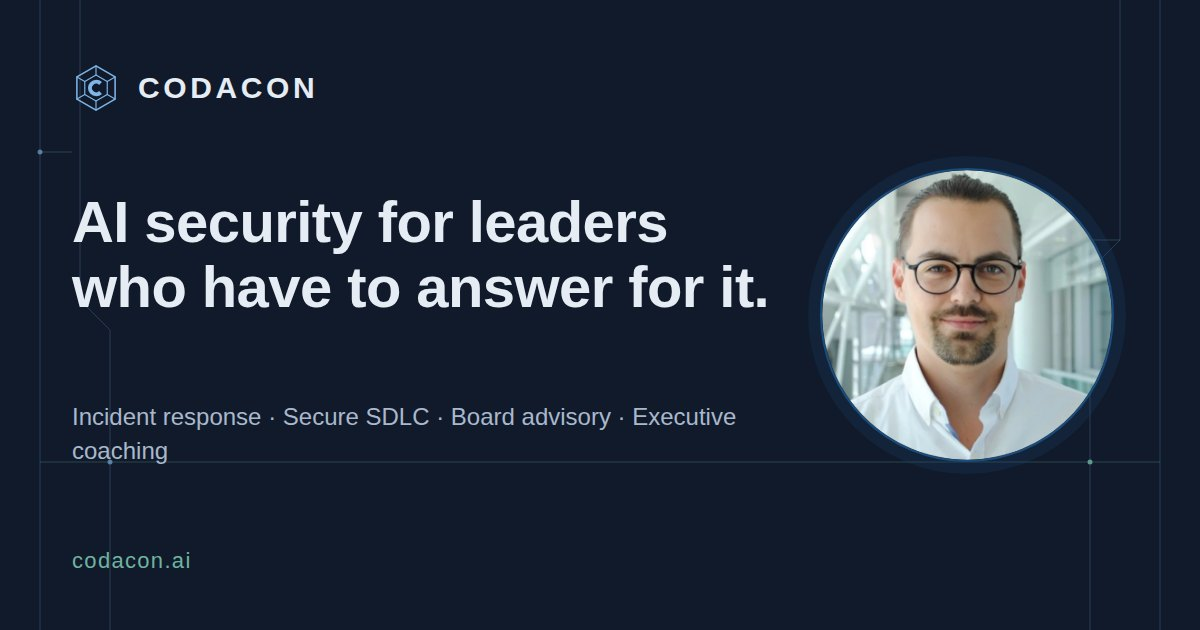
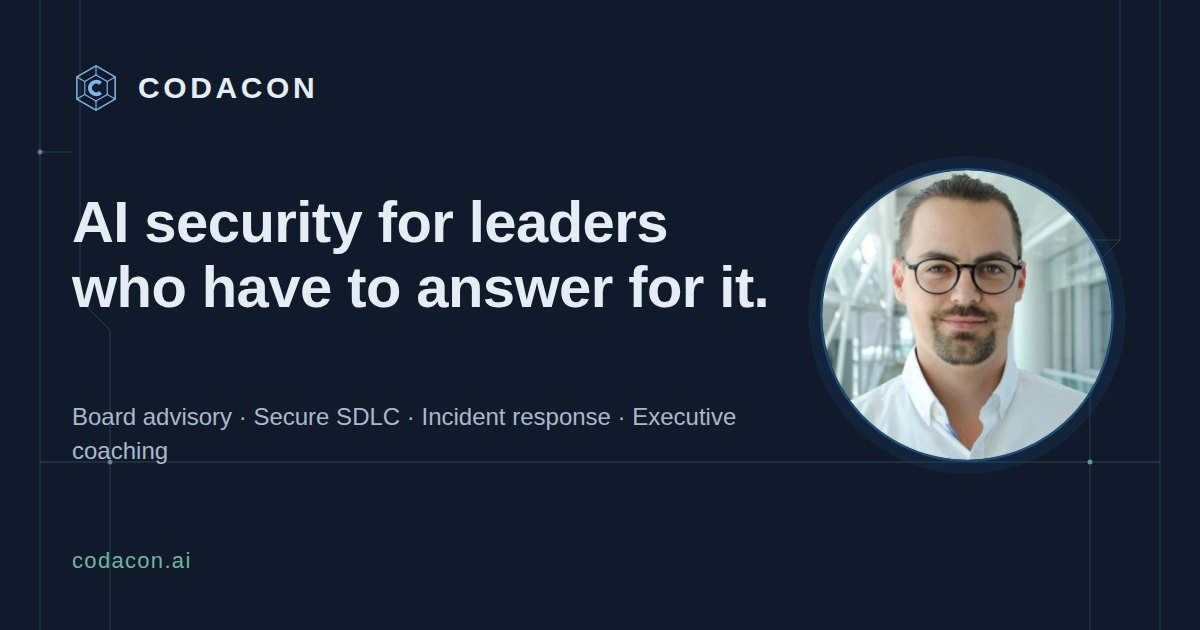
Reorder services: board advisory, then architecture, then the rest
Board advisory leads on the homepage and services pages in both languages,
followed by secure architectures and AI-driven SDLC, incident response,
executive coaching, and talent. Hero lede, meta descriptions, post CTA and
social cards follow the same order.

Claude-Session: https://claude.ai/code/session_01K1vowNS2AGvPoTpFr6H6sX

Changed region(s): [[0.0617, 0.6333, 0.5242, 0.6937]]

diff --git a/src/_data/i18n.js b/src/_data/i18n.js
@@ -17,7 +17,7 @@ module.exports = {
       license: 'This post is licensed under <a href="https://creativecommons.org/licenses/by/4.0/">CC BY 4.0</a>. You may share and adapt it with attribution and a link to',
       original: "the original",
       cta1Title: "Stay current on AI security",
-      cta1Body: 'Subscribe to the <a href="/feed.xml">RSS feed</a> for new posts on AI-driven security, secure SDLC, and incident response.',
+      cta1Body: 'Subscribe to the <a href="/feed.xml">RSS feed</a> for new posts on AI risk governance, secure SDLC, and incident response.',
       cta2Title: "Work with us",
       cta2Body: '<a href="https://calendar.app.google/imfdaTW4Y1iF9FqUA">Book a call</a> to discuss your security posture, AI strategy, or hiring needs, or <a href="mailto:hello@codacon.ai">email us</a>.',
     },
@@ -39,7 +39,7 @@ module.exports = {
       license: 'Ce billet est publié sous licence <a href="https://creativecommons.org/licenses/by/4.0/deed.fr">CC BY 4.0</a>. Vous pouvez le partager et l’adapter à condition d’en citer la source et d’inclure un lien vers',
       original: "l’original",
       cta1Title: "Restez à jour en sécurité de l’IA",
-      cta1Body: 'Abonnez-vous au <a href="/feed.xml">fil RSS</a> pour nos prochains billets sur la sécurité propulsée par l’IA, le SDLC sécurisé et la réponse aux incidents.',
+      cta1Body: 'Abonnez-vous au <a href="/feed.xml">fil RSS</a> pour nos prochains billets sur la gouvernance du risque lié à l’IA, le SDLC sécurisé et la réponse aux incidents.',
       cta2Title: "Travaillons ensemble",
       cta2Body: '<a href="https://calendar.app.google/imfdaTW4Y1iF9FqUA">Planifiez un appel</a> pour discuter de votre posture de sécurité, de votre stratégie IA ou de vos besoins en recrutement, ou <a href="mailto:hello@codacon.ai">écrivez-nous</a>.',
     },

diff --git a/src/fr/index.md b/src/fr/index.md
@@ -1,7 +1,7 @@
 ---
 layout: base.njk
 title: "CODACON — Conseil en sécurité de l’IA et ingénierie de produits"
-description: "CODACON inc. : conseil en sécurité de l’IA, réponse aux incidents, SDLC sécurisé, sécurité infonuagique et accompagnement des conseils d’administration."
+description: "CODACON inc. : accompagnement des conseils d’administration, SDLC sécurisé, réponse aux incidents et coaching exécutif en sécurité de l’IA."
 permalink: /fr/
 key: home
 signalField: full
@@ -15,7 +15,7 @@ signalField: full
   "url": "https://codacon.ai/fr/",
   "logo": "https://codacon.ai/img/logo.svg",
   "image": "https://codacon.ai/img/og-fr.jpg",
-  "description": "Firme de conseil en sécurité de l’IA et d’ingénierie de produits : réponse aux incidents, SDLC sécurisé, sécurité infonuagique, accompagnement des conseils d’administration et coaching exécutif.",
+  "description": "Firme de conseil en sécurité de l’IA et d’ingénierie de produits : accompagnement des conseils d’administration, SDLC sécurisé, sécurité infonuagique, réponse aux incidents et coaching exécutif.",
   "foundingDate": "2024",
   "founder": {
     "@type": "Person",
@@ -34,7 +34,7 @@ signalField: full
 <div class="hero-copy">
 <p class="eyebrow">Conseil en sécurité de l’IA</p>
 <h1>La sécurité de l’IA, pour les dirigeants qui doivent en répondre.</h1>
-<p class="lede">Réponse aux incidents, SDLC sécurisé et accompagnement de la direction, par un praticien qui a fait le travail. Établi au Québec, en français et en anglais.</p>
+<p class="lede">Accompagnement de la direction, SDLC sécurisé et réponse aux incidents, par un praticien qui a fait le travail. Établi au Québec, en français et en anglais.</p>
 <p class="actions"><a class="button" href="https://calendar.app.google/imfdaTW4Y1iF9FqUA">Planifier un appel de 30 minutes</a> <a href="/fr/services/">Voir les services</a></p>
 </div>
 <figure class="portrait">
@@ -55,11 +55,11 @@ CODACON travaille à l’intersection de l’IA et de la sécurité. Nous aidons
 
 ### Ce que nous faisons
 
-**Réponse aux incidents** — Détection, triage et réponse assistés par l’IA. Nous intégrons l’outillage IA à votre processus de réponse aux incidents pour que votre équipe repère les menaces plus tôt et les résolve plus vite. Ce n’est pas un SOC géré : nous bâtissons la capacité à l’intérieur de votre organisation.
+**Accompagnement des conseils d’administration** — Risque lié à l’IA et posture de sécurité pour la direction. Nous traduisons le risque technique en langage d’affaires et aidons les conseils à établir des politiques ancrées dans la réalité, pas dans les présentations des fournisseurs.
 
 **Architectures sécurisées et SDLC propulsé par l’IA** — Nous concevons et bâtissons des systèmes sécurisés pour les clients qui livrent du logiciel. Cela veut dire de la modélisation des menaces, une infrastructure infonuagique sécurisée par défaut sur AWS et un cycle de développement augmenté par l’IA qui attrape les vulnérabilités avant la mise en production.
 
-**Accompagnement des conseils d’administration** — Risque lié à l’IA et posture de sécurité pour la direction. Nous traduisons le risque technique en langage d’affaires et aidons les conseils à établir des politiques ancrées dans la réalité, pas dans les présentations des fournisseurs.
+**Réponse aux incidents** — Détection, triage et réponse assistés par l’IA. Nous intégrons l’outillage IA à votre processus de réponse aux incidents pour que votre équipe repère les menaces plus tôt et les résolve plus vite. Ce n’est pas un SOC géré : nous bâtissons la capacité à l’intérieur de votre organisation.
 
 **Coaching exécutif** — Accompagnement privé des CTO, VP ingénierie et RSSI qui doivent diriger la livraison de logiciels sécurisés à l’ère de l’IA. [Découvrir le programme](/fr/services/coaching-executif/).
 

diff --git a/src/fr/services.md b/src/fr/services.md
@@ -1,7 +1,7 @@
 ---
 layout: base.njk
 title: "Services — CODACON"
-description: "Conseil en sécurité de l’IA : réponse aux incidents, SDLC sécurisé, architecture infonuagique, conseils d’administration, coaching exécutif, talents."
+description: "Conseil en sécurité de l’IA : conseils d’administration, SDLC sécurisé et architecture infonuagique, réponse aux incidents, coaching exécutif, talents."
 permalink: /fr/services/
 key: services
 ---
@@ -10,14 +10,14 @@ key: services
 
 Nous offrons cinq capacités. Chaque mandat est cadré selon votre situation : nous ne vendons pas de forfaits.
 
-### Réponse aux incidents
+### Accompagnement des conseils d’administration
 
-Détection, triage et réponse assistés par l’IA. Nous bâtissons et intégrons l’outillage IA à votre processus de réponse aux incidents pour que votre équipe repère les menaces plus tôt et les résolve plus vite. Nous formons vos intervenants, nous ne les remplaçons pas.
+Risque lié à l’IA et posture de sécurité pour la direction. Nous aidons les conseils et les équipes de direction à comprendre leur exposition réelle, à établir des politiques ancrées dans la réalité technique et à communiquer leur posture de sécurité aux parties prenantes.
 
-- Conception de pipelines de détection avec alertes augmentées par l’IA
-- Automatisation du triage pour réduire le délai moyen de réponse
-- Exercices sur table et élaboration de guides d’intervention
-- Revue post-incident et amélioration des processus
+- Évaluation du risque lié à l’IA et cadre de gouvernance
+- Séances d’information sur la posture de sécurité pour les conseils d’administration
+- Préparation réglementaire (SOC 2, ISO 27001, NIST CSF)
+- Évaluation du risque lié à l’IA chez les fournisseurs et les tiers
 
 ### Architectures sécurisées et SDLC propulsé par l’IA
 
@@ -28,14 +28,14 @@ Nous concevons et bâtissons des systèmes sécurisés pour les équipes qui liv
 - Modélisation des menaces et revue de conception sécurisée
 - Durcissement des pipelines CI/CD
 
-### Accompagnement des conseils d’administration
+### Réponse aux incidents
 
-Risque lié à l’IA et posture de sécurité pour la direction. Nous aidons les conseils et les équipes de direction à comprendre leur exposition réelle, à établir des politiques ancrées dans la réalité technique et à communiquer leur posture de sécurité aux parties prenantes.
+Détection, triage et réponse assistés par l’IA. Nous bâtissons et intégrons l’outillage IA à votre processus de réponse aux incidents pour que votre équipe repère les menaces plus tôt et les résolve plus vite. Nous formons vos intervenants, nous ne les remplaçons pas.
 
-- Évaluation du risque lié à l’IA et cadre de gouvernance
-- Séances d’information sur la posture de sécurité pour les conseils d’administration
-- Préparation réglementaire (SOC 2, ISO 27001, NIST CSF)
-- Évaluation du risque lié à l’IA chez les fournisseurs et les tiers
+- Conception de pipelines de détection avec alertes augmentées par l’IA
+- Automatisation du triage pour réduire le délai moyen de réponse
+- Exercices sur table et élaboration de guides d’intervention
+- Revue post-incident et amélioration des processus
 
 ### Coaching exécutif
 

diff --git a/src/index.md b/src/index.md
@@ -1,7 +1,7 @@
 ---
 layout: base.njk
 title: "CODACON — AI Security Consulting & Product Engineering"
-description: "CODACON Inc. delivers AI-driven security consulting, incident response, secure SDLC, and board advisory for organizations building with AI."
+description: "CODACON Inc. delivers board advisory, secure SDLC, incident response, and executive coaching for organizations building with AI."
 key: home
 signalField: full
 ---
@@ -14,7 +14,7 @@ signalField: full
   "url": "https://codacon.ai",
   "logo": "https://codacon.ai/img/logo.svg",
   "image": "https://codacon.ai/img/og-en.jpg",
-  "description": "AI security consulting and product engineering firm specializing in incident response, secure SDLC, cloud security, board advisory, and executive coaching.",
+  "description": "AI security consulting and product engineering firm specializing in board advisory, secure SDLC, cloud security, incident response, and executive coaching.",
   "foundingDate": "2024",
   "founder": {
     "@type": "Person",
@@ -33,7 +33,7 @@ signalField: full
 <div class="hero-copy">
 <p class="eyebrow">AI security consulting</p>
 <h1>AI security for leaders who have to answer for it.</h1>
-<p class="lede">Incident response, secure SDLC, and board advisory from a practitioner who has done the work. Based in Quebec, working in English and French.</p>
+<p class="lede">Board advisory, secure SDLC, and incident response from a practitioner who has done the work. Based in Quebec, working in English and French.</p>
 <p class="actions"><a class="button" href="https://calendar.app.google/imfdaTW4Y1iF9FqUA">Book a 30-minute call</a> <a href="/services/">See services</a></p>
 </div>
 <figure class="portrait">
@@ -54,11 +54,11 @@ CODACON operates at the intersection of AI and security. We help organizations d
 
 ### What we do
 
-**Incident response** — AI-assisted detection, triage, and response. We integrate AI tooling into your IR workflow so your team catches threats earlier and resolves them faster. Not a managed SOC — we build the capability inside your organization.
+**Board advisory** — AI risk and security posture for leadership. We translate technical risk into business language and help boards set policy that reflects reality, not vendor slide decks.
 
 **Secure architectures & AI-driven SDLC** — We design and build secure systems for clients who ship software. That means threat modeling, secure-by-default cloud infrastructure on AWS, and an AI-augmented software development lifecycle that catches vulnerabilities before they reach production.
 
-**Board advisory** — AI risk and security posture for leadership. We translate technical risk into business language and help boards set policy that reflects reality, not vendor slide decks.
+**Incident response** — AI-assisted detection, triage, and response. We integrate AI tooling into your IR workflow so your team catches threats earlier and resolves them faster. Not a managed SOC — we build the capability inside your organization.
 
 **Executive coaching** — Private coaching for CTOs, VPs of Engineering and CISOs on leading secure software delivery in the age of AI. [About the program](/services/executive-coaching/).
 

diff --git a/src/services.md b/src/services.md
@@ -1,7 +1,7 @@
 ---
 layout: base.njk
 title: "Services — CODACON"
-description: "AI security consulting services: incident response, secure SDLC, cloud security architecture, board advisory, executive coaching, and AI security talent."
+description: "AI security consulting services: board advisory, secure SDLC and cloud architecture, incident response, executive coaching, and AI security talent."
 permalink: /services/
 key: services
 ---
@@ -10,14 +10,14 @@ key: services
 
 We deliver five capabilities. Each engagement is scoped to your situation — we do not sell packages.
 
-### Incident response
+### Board advisory
 
-AI-assisted detection, triage, and response. We build and integrate AI tooling into your incident response workflow so your team identifies threats earlier and resolves them faster. We train your responders, not replace them.
+AI risk and security posture for leadership. We help boards and executive teams understand their actual exposure, set policy grounded in technical reality, and communicate security posture to stakeholders.
 
-- Threat detection pipeline design with AI-augmented alerting
-- Triage automation that reduces mean time to respond
-- Tabletop exercises and IR playbook development
-- Post-incident review and process improvement
+- AI risk assessment and governance framework
+- Security posture briefings for boards of directors
+- Regulatory readiness (SOC 2, ISO 27001, NIST CSF)
+- Vendor and third-party AI risk evaluation
 
 ### Secure architectures & AI-driven SDLC
 
@@ -28,14 +28,14 @@ We design and build secure systems for teams that ship software. Threat modeling
 - Threat modeling and secure design review
 - CI/CD pipeline hardening
 
-### Board advisory
+### Incident response
 
-AI risk and security posture for leadership. We help boards and executive teams understand their actual exposure, set policy grounded in technical reality, and communicate security posture to stakeholders.
+AI-assisted detection, triage, and response. We build and integrate AI tooling into your incident response workflow so your team identifies threats earlier and resolves them faster. We train your responders, not replace them.
 
-- AI risk assessment and governance framework
-- Security posture briefings for boards of directors
-- Regulatory readiness (SOC 2, ISO 27001, NIST CSF)
-- Vendor and third-party AI risk evaluation
+- Threat detection pipeline design with AI-augmented alerting
+- Triage automation that reduces mean time to respond
+- Tabletop exercises and IR playbook development
+- Post-incident review and process improvement
 
 ### Executive coaching
 

diff --git a/src/fr/blogue.md b/src/fr/blogue.md
@@ -1,7 +1,7 @@
 ---
 layout: base.njk
 title: "Blogue — CODACON"
-description: "Textes pratiques sur la sécurité de l’IA, la réponse aux incidents, le SDLC sécurisé et la gouvernance du risque lié à l’IA, par l’équipe CODACON."
+description: "Textes pratiques sur la gouvernance du risque lié à l’IA, le SDLC sécurisé, la réponse aux incidents et la sécurité de l’IA, par l’équipe CODACON."
 permalink: /fr/blogue/
 key: blog
 ---

diff --git a/src/blog.md b/src/blog.md
@@ -1,7 +1,7 @@
 ---
 layout: base.njk
 title: "Blog — CODACON"
-description: "Practical writing on AI security, incident response, secure SDLC, and AI risk governance from the CODACON team."
+description: "Practical writing on AI risk governance, secure SDLC, incident response, and AI security from the CODACON team."
 permalink: /blog/
 key: blog
 ---
